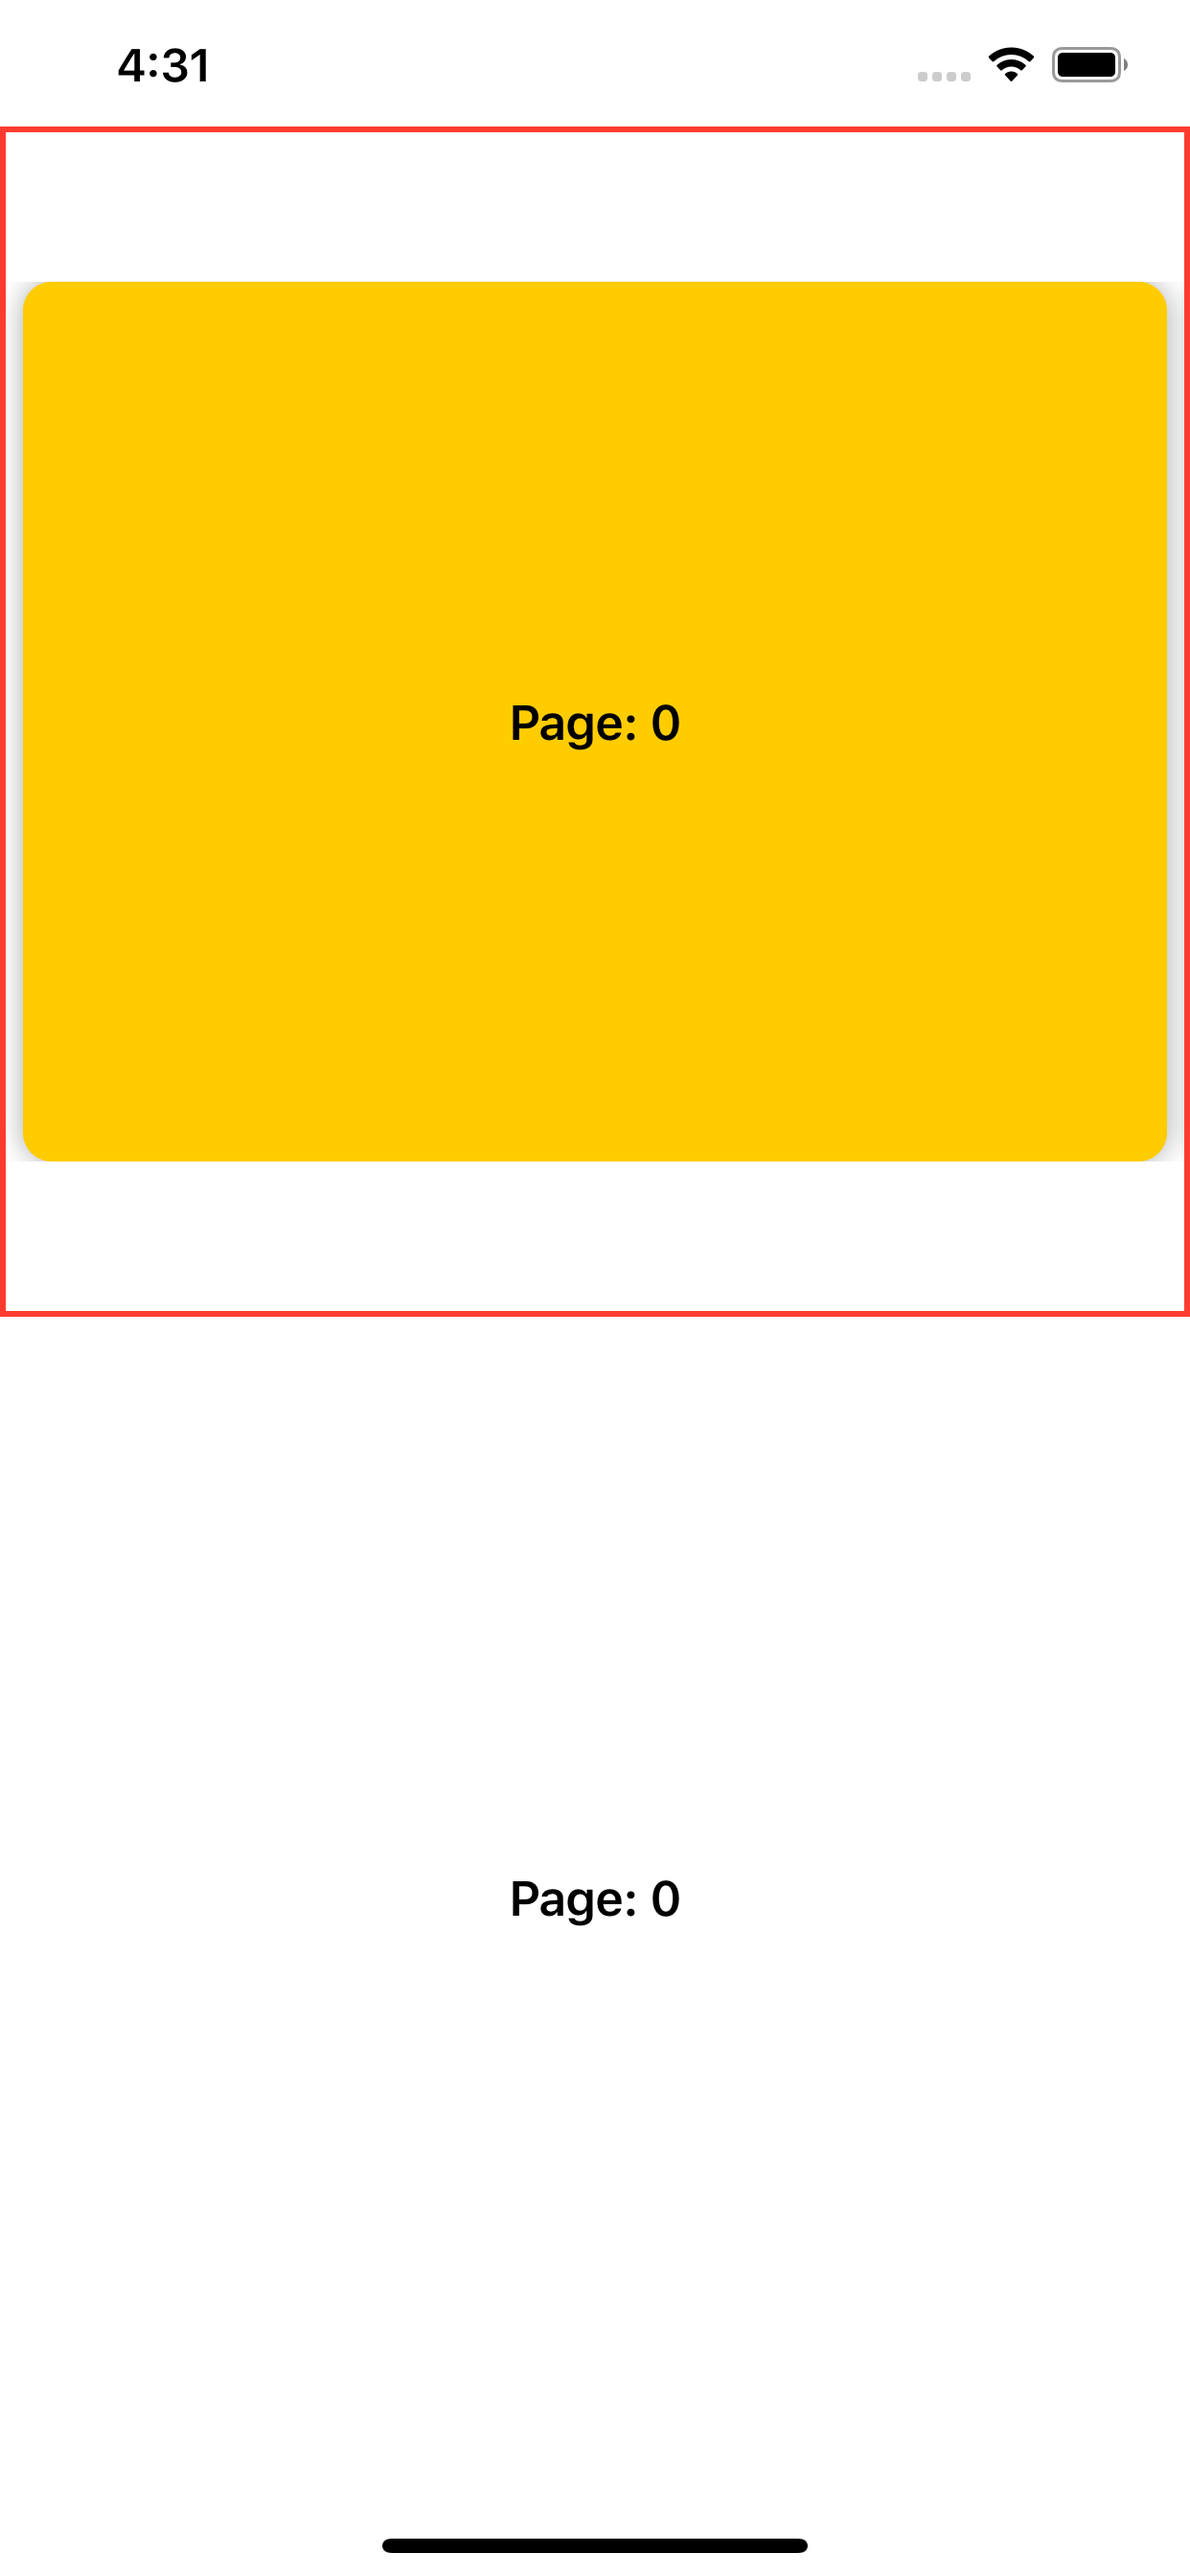
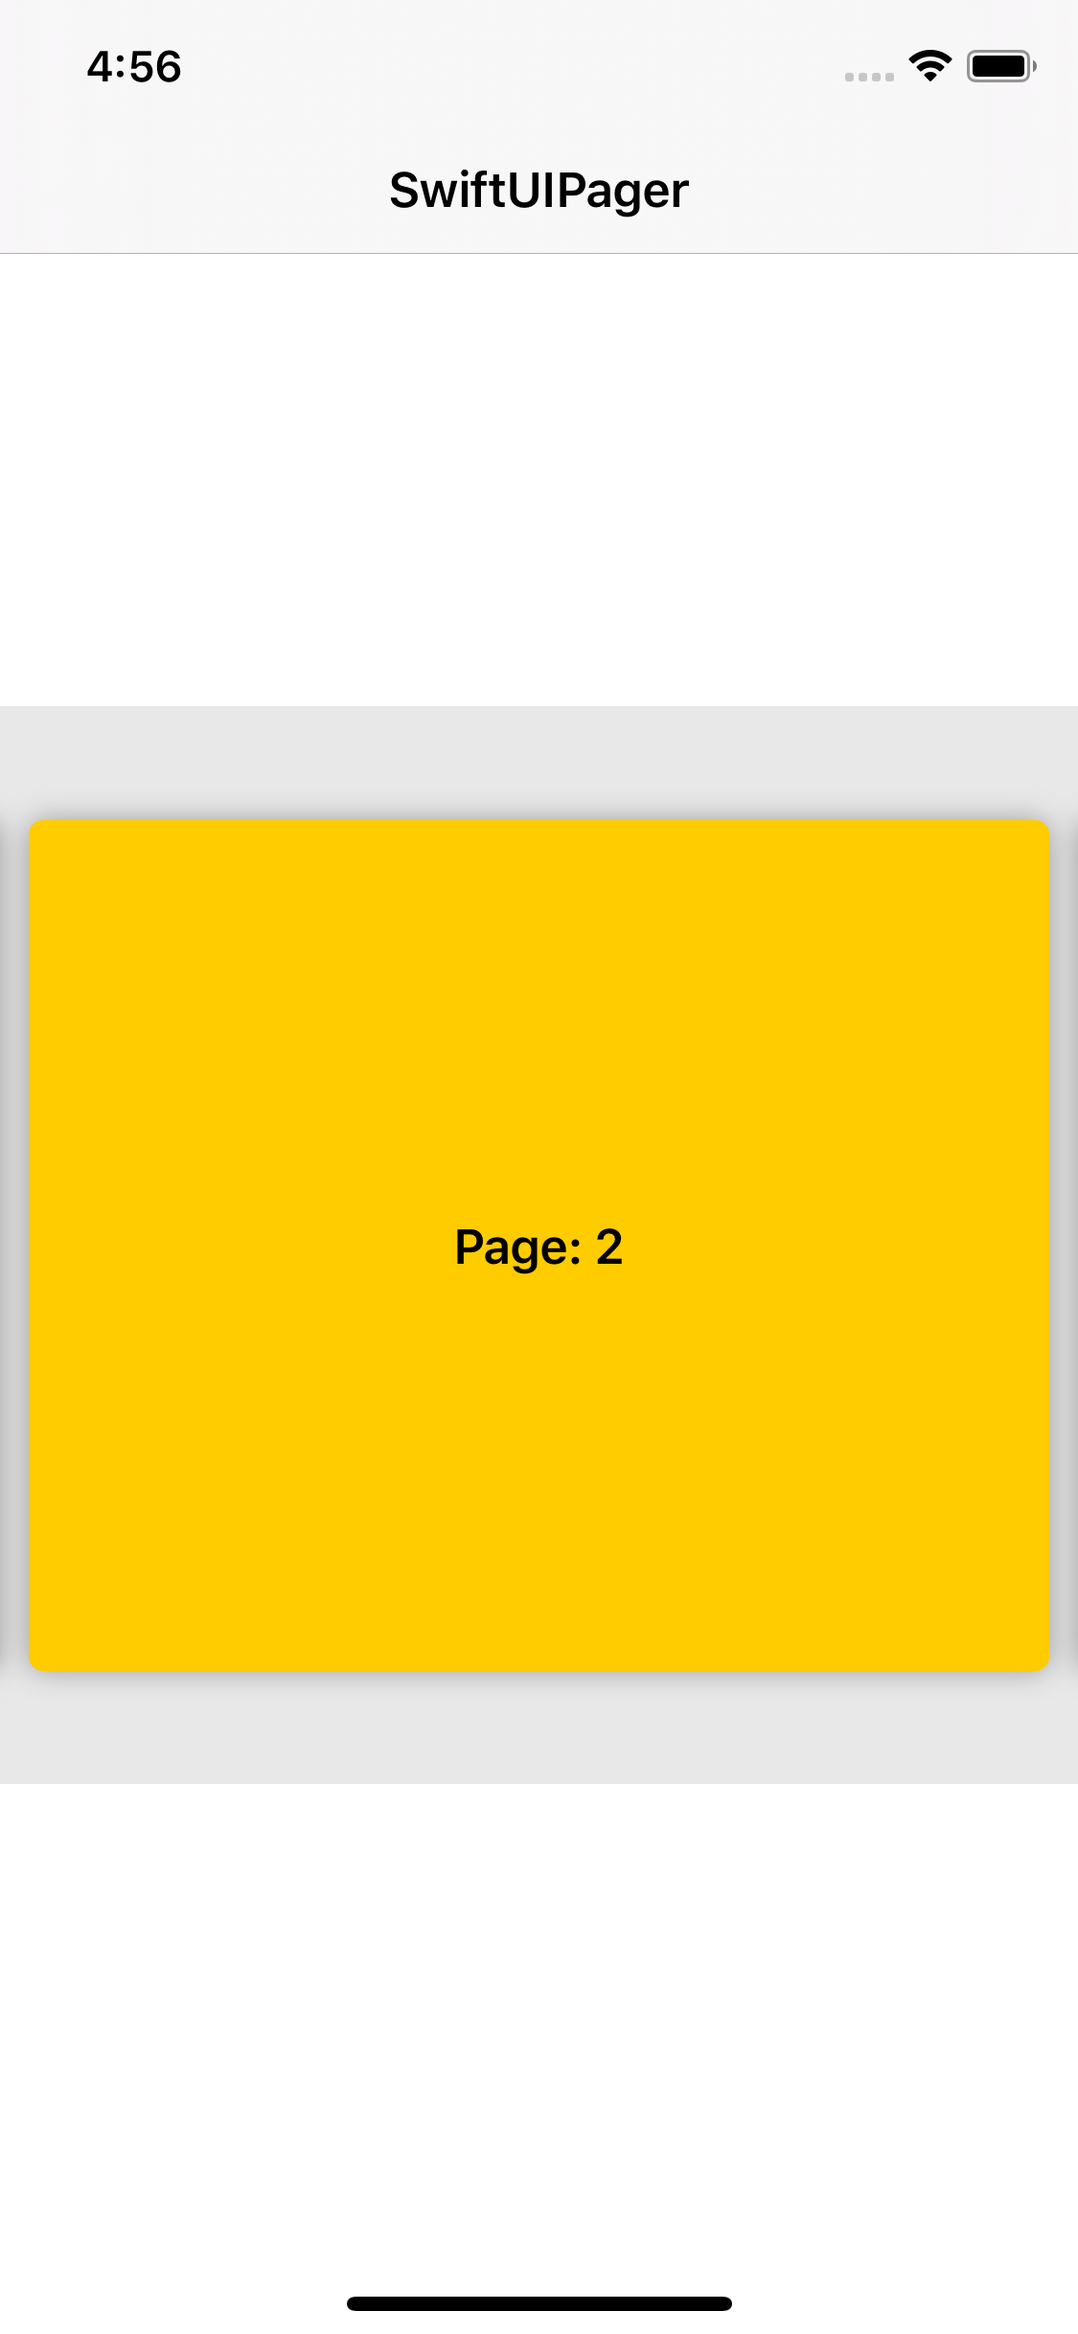
Documentation and bump to 1.3.0

diff --git a/Example/SwiftUIPagerExample/ContentView.swift b/Example/SwiftUIPagerExample/ContentView.swift
@@ -21,82 +21,83 @@ struct ContentView: View {
         .red, .blue, .black, .gray, .purple, .green, .orange, .pink, .yellow, .white
     ]
 
-    var body: some View {
-        NavigationView {
-            GeometryReader { proxy in
-                VStack {
-                    Pager(page: self.$pageIndex,
-                          data: Array(0..<10),
-                          id: \.self) {
-                            self.pageView($0)
-                    }
-                    .itemSpacing(10)
-//                    .padding(20)
-//                    .frame(width: min(proxy.size.height, proxy.size.width),
-//                           height: min(proxy.size.height, proxy.size.width))
-                        .background(Color.gray.opacity(0.2))
-//                    Spacer()
-//                    Text("Page \(self.pageIndex + 1)")
-//                    Spacer()
-                }
-            }.navigationBarTitle("SwiftUIPager", displayMode: .inline)
-        }
-    }
-    
 //    var body: some View {
 //        NavigationView {
 //            GeometryReader { proxy in
 //                VStack {
-//                    Pager(page: self.$pageIndex,
-//                          data: self.colors,
+//                    Pager(data: Array(0..<10),
 //                          id: \.self) {
 //                            self.pageView($0)
 //                    }
 //                    .itemSpacing(10)
-//                    .padding(20)
+//                    .itemAspectRatio(0.8, alignment: .end)
+//                    .padding(8)
 //                    .frame(width: min(proxy.size.height, proxy.size.width),
 //                           height: min(proxy.size.height, proxy.size.width))
-//                        .background(Color.gray.opacity(0.3))
-//                        .navigationBarTitle("Color Picker", displayMode: .inline)
-//
-//                    Spacer()
-//
-//                    HStack {
-//                        Spacer()
-//                        Circle()
-//                            .fill(self.colors[self.pageIndex])
-//                            .frame(width: 80)
-//                            .overlay(Circle().stroke(self.pageIndex < 4 ? Color.gray.opacity(0.5) : Color.black, lineWidth: 5))
-//                        Spacer()
-//                        Text("\(self.colors[self.pageIndex].rgb)")
-//                        Spacer()
-//                    }
+//                        .background(Color.gray.opacity(0.2))
 //                }
-//            }
+//            }.navigationBarTitle("SwiftUIPager", displayMode: .inline)
 //        }
 //    }
+    
+    var body: some View {
+        NavigationView {
+            GeometryReader { proxy in
+                VStack {
+                    Pager(data: self.colors,
+                          id: \.self) {
+                            self.pageView($0)
+                    }
+                    .itemSpacing(10)
+                    .padding(20)
+                    .onPageChanged({ page in
+                        withAnimation {
+                            self.pageIndex = page
+                        }
+                    })
+                    .frame(width: min(proxy.size.height, proxy.size.width),
+                           height: min(proxy.size.height, proxy.size.width))
+                        .background(Color.gray.opacity(0.3))
+                        .navigationBarTitle("Color Picker", displayMode: .inline)
+
+                    Spacer()
+
+                    HStack {
+                        Spacer()
+                        Circle()
+                            .fill(self.colors[self.pageIndex])
+                            .frame(width: 80)
+                            .overlay(Circle().stroke(self.pageIndex < 4 ? Color.gray.opacity(0.5) : Color.black, lineWidth: 5))
+                        Spacer()
+                        Text("\(self.colors[self.pageIndex].rgb)")
+                        Spacer()
+                    }
+                }
+            }
+        }
+    }
 
 }
 
 extension ContentView {
 
-    func pageView(_ page: Int) -> some View {
-        ZStack {
-            Rectangle()
-                .fill(Color.yellow)
-            Text("Page: \(page + 1)")
-                .bold()
-        }
-        .cornerRadius(5)
-        .shadow(radius: 5)
-    }
-
-//    func pageView(_ color: Color) -> some View {
-//        Rectangle()
-//            .fill(color)
-//            .cornerRadius(5)
-//            .shadow(radius: 5)
+//    func pageView(_ page: Int) -> some View {
+//        ZStack {
+//            Rectangle()
+//                .fill(Color.yellow)
+//            Text("Page: \(page)")
+//                .bold()
+//        }
+//        .cornerRadius(5)
+//        .shadow(radius: 5)
 //    }
+
+    func pageView(_ color: Color) -> some View {
+        Rectangle()
+            .fill(color)
+            .cornerRadius(5)
+            .shadow(radius: 5)
+    }
 }
 
 struct ContentView_Previews: PreviewProvider {

diff --git a/Sources/SwiftUIPager/Helpers/PositionAlignment.swift b/Sources/SwiftUIPager/Helpers/PositionAlignment.swift
@@ -5,7 +5,7 @@
 //  Created by Fernando Moya de Rivas on 24/02/2020.
 //
 
-import Foundation
+import CoreGraphics
 
 /// `Alignment` determines the focused page alignment inside `Pager`
 public enum PositionAlignment {

diff --git a/README.md b/README.md
@@ -41,14 +41,12 @@ github "fermoya/SwiftUIPager"
 ### Initialization
 
 Creating a `Pager` is very simple. You just need to pass:
-- `Binding` to page index
 - `Array` of items 
 - `KeyPath` to an identifier.
 - `ViewBuilder` factory method to create each page
 
 ```swift
- Pager(page: self.$pageIndex,
-       data: self.items,
+ Pager(data: self.items,
        id: \.identifier,
        content: { item in
            // create a page based on the data passed
@@ -64,15 +62,26 @@ Creating a `Pager` is very simple. You just need to pass:
 Pager(...)
      .itemSpacing(10)
      .padding(8)
-     .pageAspectRatio(0.6)
+     .itemAspectRatio(0.6)
 ```
-`pageAspectRatio` will change the look of the page. Use a value lower than 1 to make the page look like a card:
+`itemAspectRatio` will change the look of the page. Use a value lower than 1 to make the page look like a card:
 
-<img src="resources/page_aspect_ratio_lower_than_1.png" alt="PageAspectRatio lower than 1" height="640"/>
+<img src="resources/page_aspect_ratio_lower_than_1.png" alt="itemAspectRatio lower than 1" height="640"/>
 
 whereas a value greater than one will make it look like a box:
 
-<img src="resources/page_aspect_ratio_greater_than_1.png" alt="PageAspectRatio greater than 1" height="640"/>
+<img src="resources/page_aspect_ratio_greater_than_1.png" alt="itemAspectRatio greater than 1" height="640"/>
+
+Add a position alignment to `itemAspectRatio` to specify the alignment inside `Pager`:
+
+```swift
+Pager(...)
+     .itemSpacing(10)
+     .padding(8)
+     .itemAspectRatio(1.5, alignment: .end)
+```
+
+<img src="resources/item_alignment_start.gif" alt="Pages positioned at the start of the horizontal pager" height="640"/>
 
 By default, `Pager` will create a horizontal container. Use `vertical` to create a vertical pager:
 
@@ -81,7 +90,7 @@ Pager(...)
     .vertical()
 ```
 
-<img src="resources/vertical-pager.gif" alt="PageAspectRatio greater than 1" height="640"/>
+<img src="resources/vertical-pager.gif" alt="Vertical pager" height="640"/>
 
 You can customize the alignment and the direction of the scroll. For instance, you can have a horizontal `Pager` that scrolls right-to-left that it's aligned at the start of the scroll:
 
@@ -93,7 +102,7 @@ Pager(...)
     .itemAspectRatio(0.6)
 ```
 
-<img src="resources/orientation-alignment.gif" alt="PageAspectRatio greater than 1" height="640"/>
+<img src="resources/orientation-alignment.gif" alt="Pages aligned to the start of the pager" height="640"/>
 
 ### Animations
 
@@ -114,7 +123,7 @@ Pager(...)
     .rotation3D()
 ```
 
-<img src="resources/rotation3D.gif" alt="PageAspectRatio lower than 1" height="640"/>
+<img src="resources/rotation3D.gif" alt="Rotation 3D" height="640"/>
 
 ### Events
 
@@ -133,7 +142,7 @@ You can use `Pager` to implement cool effects as in [iPod](https://github.com/fe
 
 <img src="resources/cool-sample.gif" alt="Cool sample with Pager"/>
 
-For more information, please check the [sample app](/Sample).
+For more information, please check the [sample app](/Example).
 
 If you have any issues or feedback, please open an issue or reach out to me at [fmdr.ct@gmail.com](mailto:fmdr.ct@gmail.com).  
 Please feel free to collaborate and make this framework better. 
